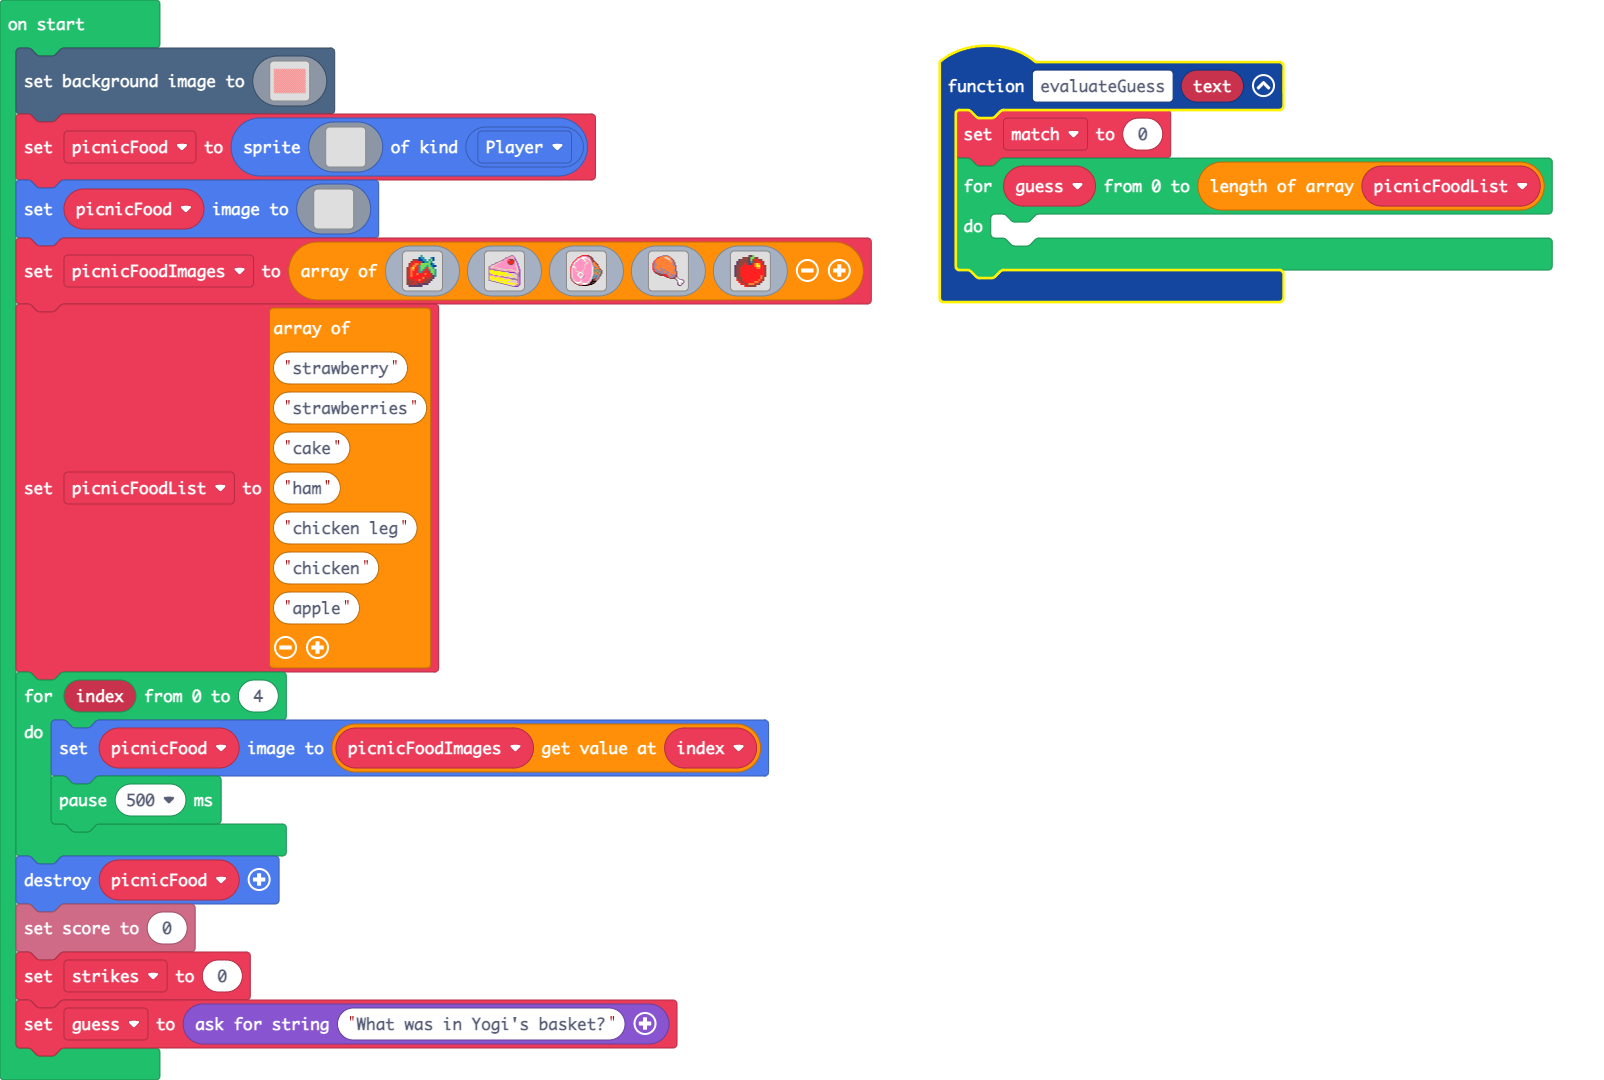
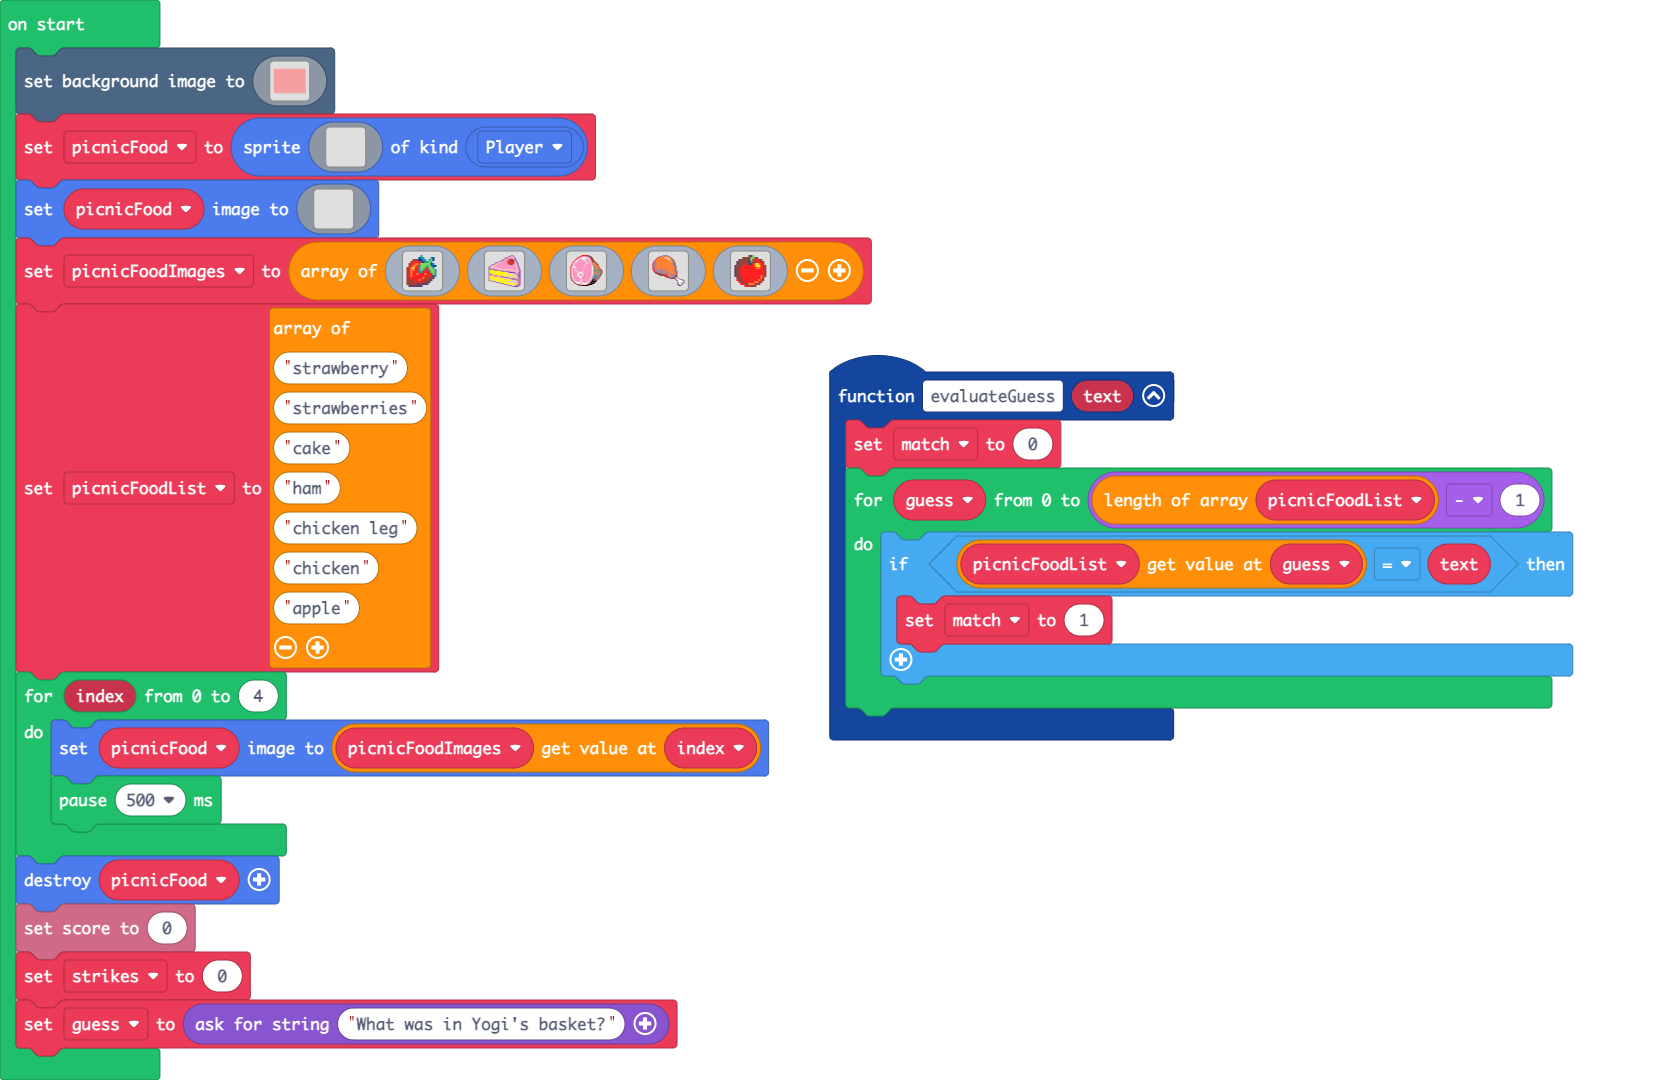
updated code

diff --git a/main.ts b/main.ts
@@ -1,7 +1,9 @@
 function evaluateGuess (text: string) {
     match = 0
-    for (let guess = 0; guess <= picnicFoodList.length; guess++) {
-    	
+    for (let guess = 0; guess <= picnicFoodList.length - 1; guess++) {
+        if (picnicFoodList[guess] == text) {
+            match = 1
+        }
     }
 }
 let match = 0
